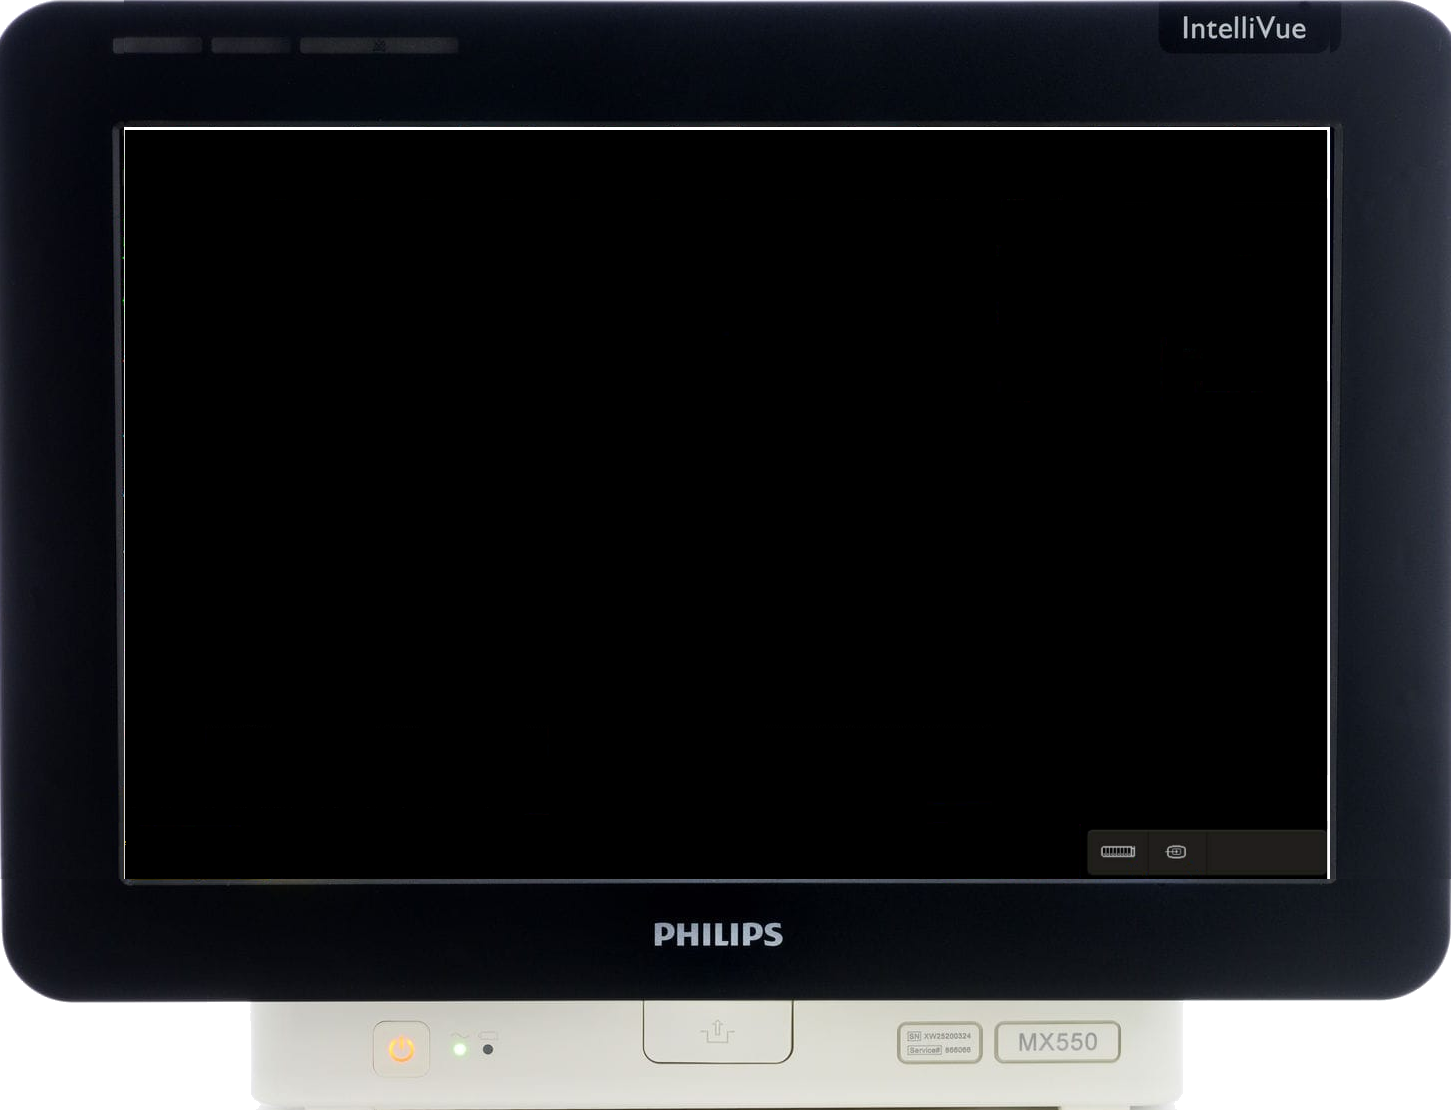
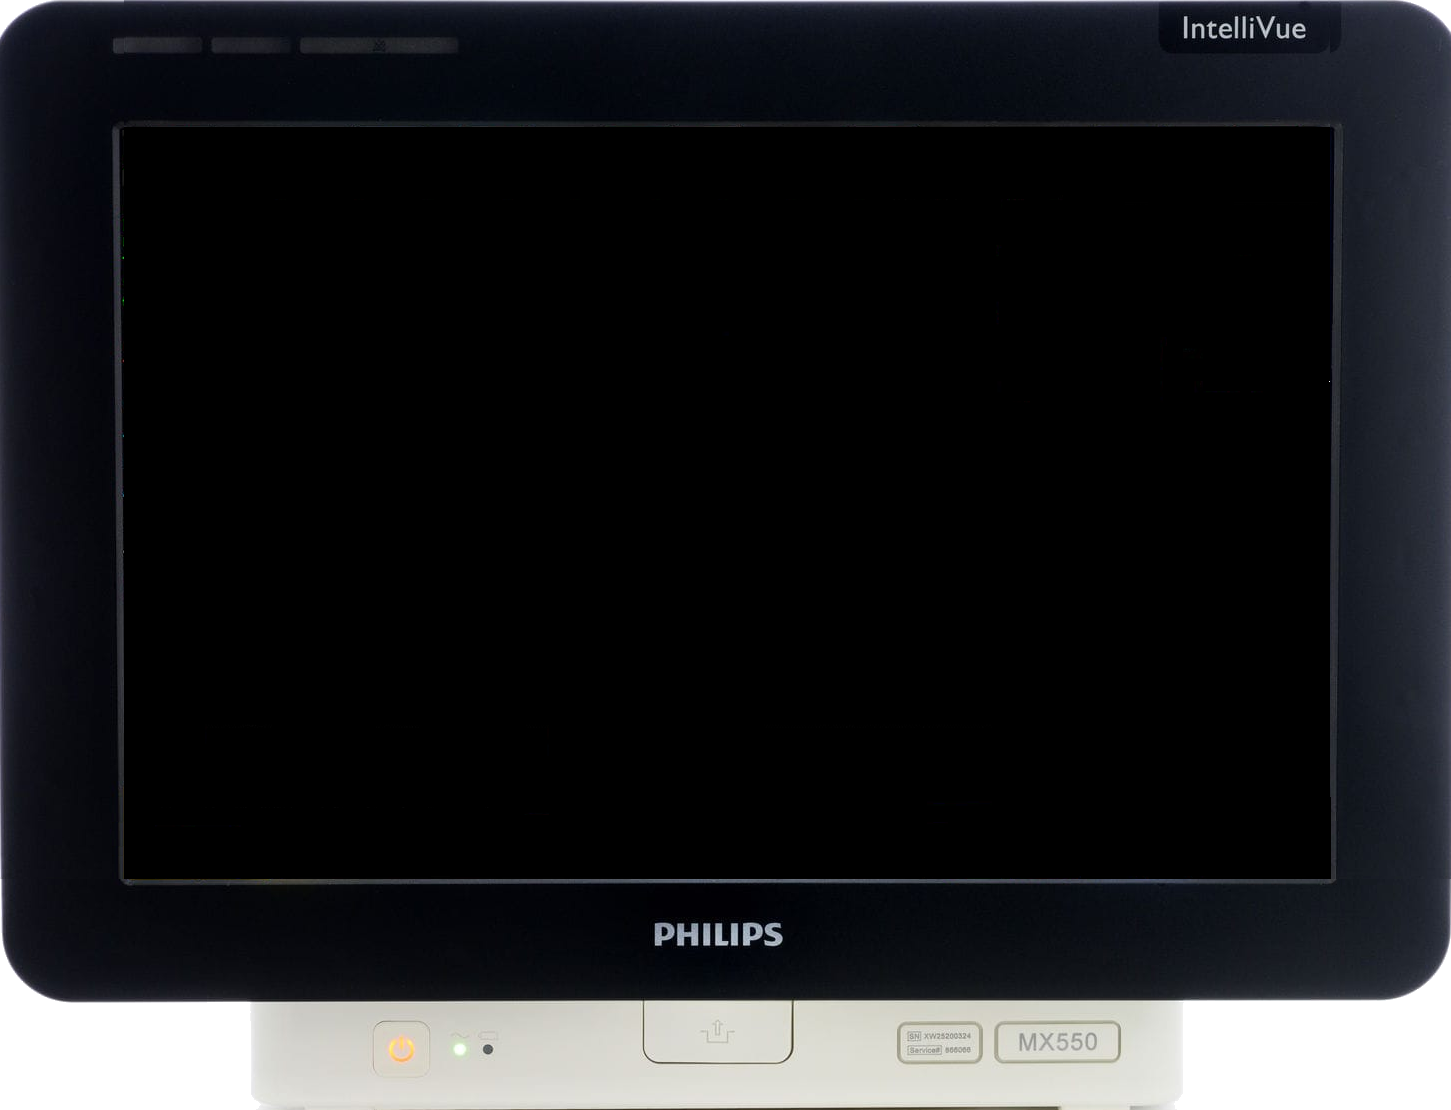
finish to put all button in widgets

Changed region(s): [[0.7443, 0.7351, 0.9304, 0.7964]]

diff --git a/examples/demos/PhilipsMx550/js/index.js b/examples/demos/PhilipsMx550/js/index.js
@@ -1589,14 +1589,14 @@ require([
                 imageDisplayKey: 'alarmsOffImage'
             })
 
-        mx550.buttonBack = new ButtonEVO('back-button',
+        mx550.buttonBack = new ButtonEVO('back-button1',
             {top: 752, left: 218, width: 30, height:38},
             {
-                    parent: 'prototype',
-                    backgroundColor: 'transparent',
-                    visibleWhen: 'isOn = TRUE'
+                parent: 'prototype',
+                backgroundColor: 'transparent',
+                visibleWhen: 'isOn = TRUE'
             })
-        mx550.buttonBackLabel = new BasicDisplayEVO('back-button-label',
+        mx550.buttonBackLabel = new BasicDisplayEVO('back-button-label1',
             {top: 752, left: 218, width: 30, height:38},
             {
                 parent: 'prototype',
@@ -1770,7 +1770,27 @@ require([
             })
 
 
-        mx550.mainSetuputton = new ButtonImage('main-setup-button',
+        
+        
+        
+        mx550.buttonBack = new ButtonEVO('back-button',
+            {top: 752, left: 218, width: 30, height:38},
+            {
+                    parent: 'prototype',
+                    backgroundColor: 'transparent',
+                    visibleWhen: 'isOn = TRUE'
+            })
+        mx550.buttonBackLabel = new BasicDisplayEVO('back-button-label',
+            {top: 752, left: 218, width: 30, height:38},
+            {
+                parent: 'prototype',
+                fontSize: 8,
+                backgroundColor: '#2D2A28',
+                visibleWhen: 'isOn = TRUE',
+                fontColor: '#FFFFFF'
+            })
+
+            mx550.mainSetuputton = new ButtonImage('main-setup-button',
             {top: 754, left: 817, width: 44, height: 34},
             {
                 parent: 'prototype',
@@ -1799,11 +1819,39 @@ require([
                 textDisplayKey: 'mainScreenButtonText',
                 imageDisplayKey: 'mainScreenButtonImage'
             })
-        
-       
 
 
+            mx550.measurementSelectionButton = new ButtonImage('measurement-selection-button',
+            {top: 752, left: 922, width: 46, height: 38},
+            {
+                parent: 'prototype',
+                backgroundColor: '#2D2A28',
+                visibleWhen: 'isOn = TRUE',
+                fontSize: 6,
+                fontColor: '#FFFFFF',
+                fontWeight: 'bold',
+                fontFamily: 'Avantgarde, TeX Gyre Adventor, URW Gothic L, sans-serif',
+                align: 'center',
+                imagePosition: 'all',
+                textDisplayKey: 'measurementSelectionButtonText',
+                imageDisplayKey: 'measurementSelectionButtonImage'
+            })
 
+            mx550.remoteApplicationsButton = new ButtonImage('remote-apps-button',
+            {top: 752, left: 974, width: 46, height: 38},
+            {
+                parent: 'prototype',
+                backgroundColor: '#2D2A28',
+                visibleWhen: 'isOn = TRUE',
+                fontSize: 6,
+                fontColor: '#FFFFFF',
+                fontWeight: 'bold',
+                fontFamily: 'Avantgarde, TeX Gyre Adventor, URW Gothic L, sans-serif',
+                align: 'center',
+                imagePosition: 'all',
+                textDisplayKey: 'remoteAppsButtonText',
+                imageDisplayKey: 'remoteAppsButtonImage'
+            })
 
         // LEDs
         mx550.onoff_led = new LED("onoff_led", 
